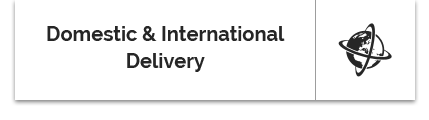
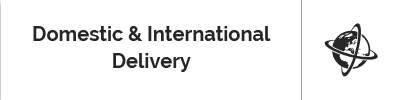
4th version - whole site, without RWD

Changed region(s): [[0.0299, 0.0, 0.9875, 0.87]]

diff --git a/Challenge2/index.html b/Challenge2/index.html
@@ -12,9 +12,9 @@
 
 	<!-- Optional theme -->
 	<link rel="stylesheet" href="https://maxcdn.bootstrapcdn.com/bootstrap/3.3.6/css/bootstrap-theme.min.css" integrity="sha384-fLW2N01lMqjakBkx3l/M9EahuwpSfeNvV63J5ezn3uZzapT0u7EYsXMjQV+0En5r" crossorigin="anonymous">
-
 	
-<link rel="stylesheet" type="text/css" href="style.css" />
+	<link rel="stylesheet" type="text/css" href="style.css" />
+
 </head>
 <body data-spy="scroll" data-target="#bs-example-navbar-collapse-1">
 <div class="top" id="home">
@@ -46,7 +46,6 @@
 	</nav>
 
 <div class="container main">
-
 		<div class="row">
 		 <div class="col-md-6">
 			<div class="left">
@@ -57,7 +56,7 @@
 		 </div>
 		  <div class="col-md-6"></div>
 		</div>
-</div>
+	</div>
 </div>
 
 	<div class="container-fluid"id="about">
@@ -66,32 +65,123 @@
 			<div class="col-md-4  about-right">
 				<h1 class="h1">About Us</h1>
 				<span>Abore Cahee magna aliqua. Ut enim ad minim veniam, quis nostrud exercitation ullamco laboris nisi ut aliquip ex ea commodo consequat. Duis aute irure dolor in reprehenderit in voluptate velit esse cillum.
-Nim id est laborum. Sed ut perspiciatis unde omnis iste natus error sit voluptatem accusantium doloremque laudantium, totam rem aperiam, eaque ipsa quae ab illo inventore. </span>
+				ab illo inventore. </span>
 			</div>
-
 		</div>
-
 	</div>
+	
 	<div class="container-fluid"id="services">
+	<div class="container">
 		<div class="row">
-			<div class="col-md-5  services-left">
-				<img src="Images/shopping.png">
-				<img src="Images/quality.png">
-				<img src="Images/export.png">
-				<img src="Images/organized.png">
+			<div class="col-md-5 col-md-offset-1  services-left">
+				<button class="button"><img src="Images/shop.png"></button>
+				<button class="button"><img src="Images/shop.png"></button>
+				<button class="button"><img src="Images/export.png"></button>
+				<button class="button"><img src="Images/organized.png"></button>
 			</div>
 			<div class="col-md-6 services-right">
-				<h1 class="h1 h1-margin" >Our Services</h1>
-				
+				<h1 class="h1 h1-margin" >Our Services</h1>	
 			</div>
-
 		</div>
-
+	</div>
+</div>
+	<div class="container-fluid"id="gallery">
+		<div class="container">
+			<div class="row">
+			<div class="col-md-12">
+				<h1 class="h1">Gallery</h1>
+				<span>Consectetur adipisicing elit, sed do eiusmod tempor incididunt ut labore et dolore magna <br> aliqua. Ut enim ad minim veniam, quis nostrud exercitation ullamco laboris nisi ut aliquip <br> ex ea commodo consequat.</span>
+			</div>
+				<div class="col-md-8 gallery-left">
+					<img  class="img-responsive" src="Images/gallery1.png">
+				</div>
+				<div class="col-md-4 gallery-right">
+					<img class="img-responsive" src="Images/gallery2.png"  style="margin-bottom:30px;">
+					<img class="img-responsive" src="Images/gallery3.png">
+				</div>
+				<div class="col-md-6 gallery1">
+					<img class="img-responsive" src="Images/gallery4.png">
+				</div>
+				<div class="col-md-6 gallery">
+					<img class="img-responsive" src="Images/gallery5.png">
+				</div>
+			</div>
+			<div class="row">
+				<button type="button" class="btn btn-lg button">VIEW MORE</button>
+			</div>
+		</div>
+	</div>
+	
+	<div class="container-fluid"id="subscribe">
+	<div class="container">
+		<div class="row">
+			<div class="col-md-11 subscribe-left">
+				<h2>Subscribe To Us</h2>
+				<br>
+				<span>Dolor sit amet, consectetur adipisicing elit, sed do eiusmod tempor incididunt ut <br> labore et dolore magna aliqua. Ut enim ad minim veniam.</span>
+				<br><br>
+				<input type="email" placeholder="Your email address...">
+				<button type="button" class="btn btn-lg button">SUBSCRIBE</button>
+				</div>
+			</div>
+		</div>
+	</div>
+	<div class="container-fluid"id="blog">
+		<div class="container">
+			<div class="row">
+				<div class="col-md-12 blog">
+							<h1 class="h1">Blog</h1>
+							<span>Dolore magna aliqua. Ut enim ad minim veniam, quis nostrud exercitation ullamco <br> laboris nisi ut aliquip ex ea commodo consequat. Duis aute irure dolor in<br> reprehenderit in voluptate velit.</span>
+						</div>	
+						<div class="col-md-4"><img class="img-responsive" src="Images/blog1.png"></div>
+						<div class="col-md-4"><img class="img-responsive" src="Images/blog2.png"></div>
+						<div class="col-md-4"><img class="img-responsive" src="Images/blog3.png"></div>
+					</div>
+			<div class="row">
+				<button type="button" class="btn btn-lg button">VIEW MORE</button>
+			</div>
+		</div>
 	</div>
 
+	<div class="container-fluid"id="contact">
+		<div class="container">
+			<div class="row">
+			<div class="col-md-12 contact">
+				<h1 class="h1">Contact</h1>
+				<span>For new projects, ideas, business or anything<br>
+					you'd like to discuss, contact with me!</span>
+			</div>
+				<div class="col-md-5 contact-left">
+					  <input type="text" class="form-control input" placeholder="Your name" aria-describedby="sizing-addon2">
+					  <input type="text" class="form-control input" placeholder="Your email..." aria-describedby="sizing-addon2">
+					  <input type="text" class="form-control input" placeholder="Your phone number..." aria-describedby="sizing-addon2">
+					  <textarea type="text"  class="form-control input"  placeholder="Your message..."></textarea>	
+				</div>
+				<div class="col-md-5 col-md-offset-1 contact-right">
+					<span class="capital">ADDRESS</span><br>
+					<span>123 City name, Street, City, Country</span><br>
+					<span class="capital">EMAIL</span><br>
+					<span>cahee@domain.com</span><br>
+					<span class="capital">PHONE</span><br>
+					<span>+12 345 6789</span><br>
+				</div>
+				
+			</div>
+		</div>
+	</div>
+	
+	<div class="container-fluid"id="footer">
+		<div class="container">
+			<div class="row footer">
+				<div class="col-md-4">&copy 2015 Company. All rights reserved.</div>
+				<div class="col-md-4 logo-small"><img src="Images/logo-small.png"></div>
+				<div class="col-md-4 right">Made with <span class="red">love</span> by Auskteez</div>
+			</div>
+		</div>
+	</div>
 
 <script src="https://ajax.googleapis.com/ajax/libs/jquery/1.11.3/jquery.min.js"></script>
 <script src="https://maxcdn.bootstrapcdn.com/bootstrap/3.3.6/js/bootstrap.min.js" integrity="sha384-0mSbJDEHialfmuBBQP6A4Qrprq5OVfW37PRR3j5ELqxss1yVqOtnepnHVP9aJ7xS" crossorigin="anonymous"></script>
-
+<script src="js/bootstrap-image-gallery.min.js"></script>
 </body>
 </html>

diff --git a/Challenge2/style.css b/Challenge2/style.css
@@ -55,28 +55,34 @@ padding-top:4px;
 }
 .left{
 	margin-top:300px;
-	margin-left:60px;
+	margin-left:50px;
 	font-family: 'Raleway', sans-serif;
 }
 .h1{
-	font-weight:900;
-	font-size: 60px;	
+	font-weight:700;
+	font-size: 65px;	
 }
 .h1-margin{
-	margin-top:300px;
+	margin-top:50%;
+}
+#home h1{
+	font-weight:900;
+	font-size: 65px;
 }
 .left span{
 	font-weight:300;
 }
-.button{
+#home button{
 	background-color:#ff6033;
 	color:white;
 	margin-top:30px;
-	margin-left:60px;
+	margin-left:60px;	
+}
+.button{
 	border-radius:0px;
 	-webkit-box-shadow: 0px 4px 10px 0px rgba(0,0,0,0.75);
--moz-box-shadow: 0px 4px 10px 0px rgba(0,0,0,0.75);
-box-shadow: 0px 4px 10px 0px rgba(0,0,0,0.75);
+	-moz-box-shadow: 0px 4px 10px 0px rgba(0,0,0,0.75);
+	box-shadow: 0px 4px 10px 0px rgba(0,0,0,0.75);
 }
 .button:hover,
 .button:visited{
@@ -99,6 +105,14 @@ box-shadow: 0px 4px 10px 0px rgba(0,0,0,0.75);
 	background-color:#70bfff;
 	color:white;
 }
+
+#services button{
+	padding:0px 0px;
+	margin-bottom:20px;
+}
+#services button:hover{
+	box-shadow:none;
+}
 .services-right{
 	background:url("Images/tomato.png");
 	background-repeat:no-repeat;
@@ -107,6 +121,137 @@ box-shadow: 0px 4px 10px 0px rgba(0,0,0,0.75);
 
 }
 .services-left{
-	margin-left:60px;
-	margin-top: 170px;
+	margin-top: 10%;
+	
+}
+#gallery{
+	background-color: #ffe92f;
+	text-align:center;
+	padding-top:100px;
+}
+
+#gallery button{
+	color:white;
+	background-color:#5585a2;
+	margin-top:30px;
+	margin-bottom:120px;	
+}
+.gallery-left,
+.gallery-right{
+	margin-bottom: 40px;
+	margin-top:50px;
+}
+
+#subscribe{
+background:url("Images/subscribe-bg.png") no-repeat;
+background-size:cover;	
+height:500px;
+
+}
+.subscribe-left{
+	margin-top:140px;
+	margin-left:10px;	
+}
+#subscribe h2{
+	font-weight:700;
+	font-size:30px;
+}
+#subscribe button{
+	background-color:#96b92c;
+	margin-left:30px;
+	color:white;
+}
+#subscribe input{
+	border: solid 1px black;
+	 padding: 10px;
+	 width:70%;
+}
+#blog{
+	background-color: #b07cf7;
+	text-align:center;
+	padding-top:100px;
+	color:white;
+}
+.blog{
+	margin-bottom:50px;
+}
+#blog button{
+	color:white;
+	background-color:#f72b3b;
+	margin-top:50px;
+	margin-bottom:120px;	
+}
+#contact{
+	background:url("Images/contact-bg.png") no-repeat;
+	background-size:cover;	
+	padding-top:100px;
+	height:850px;
+}
+.contact{
+	text-align:center;
+}
+.contact-left{
+	margin-top:50px;
+	margin-left:30px;
+}
+.input{
+	background-color:rgba(0,196,196,0.5);
+	color:white;
+	font-weight:700;
+	margin-bottom:30px;
+}
+.input:focus{
+	background-color:rgb(0,196,196)
+}
+/* here I've changed color of placeholders */
+.input::-webkit-input-placeholder {
+    color: white;
+	font-weight:300;
+}
+.input:-moz-placeholder {
+    /* FF 4-18 */
+     color: white;
+	 font-weight:300;
+}
+.input::-moz-placeholder {
+    /* FF 19+ */
+     color: white;
+	 font-weight:300;
+}
+.input:-ms-input-placeholder {
+    /* IE 10+ */
+    color: white;
+	font-weight:300;
+}
+
+textarea.form-control{
+	height:250px;
+	width:100%;
+}
+
+.contact-right{
+margin-top:50px;	
+}
+.capital{
+	font-weight:700;
+	text-align:left;
+	line-height:30px;
+}
+#footer{
+	background-color:black;
+	color:white;
+	height:90px;
+}
+.footer{
+	padding:30px;
+}
+.logo-small{
+	text-align:center;
+}
+.red{
+	color:#ff2b58;
+	font-weight:700;
+}
+.right{
+	text-align:right;
 }
